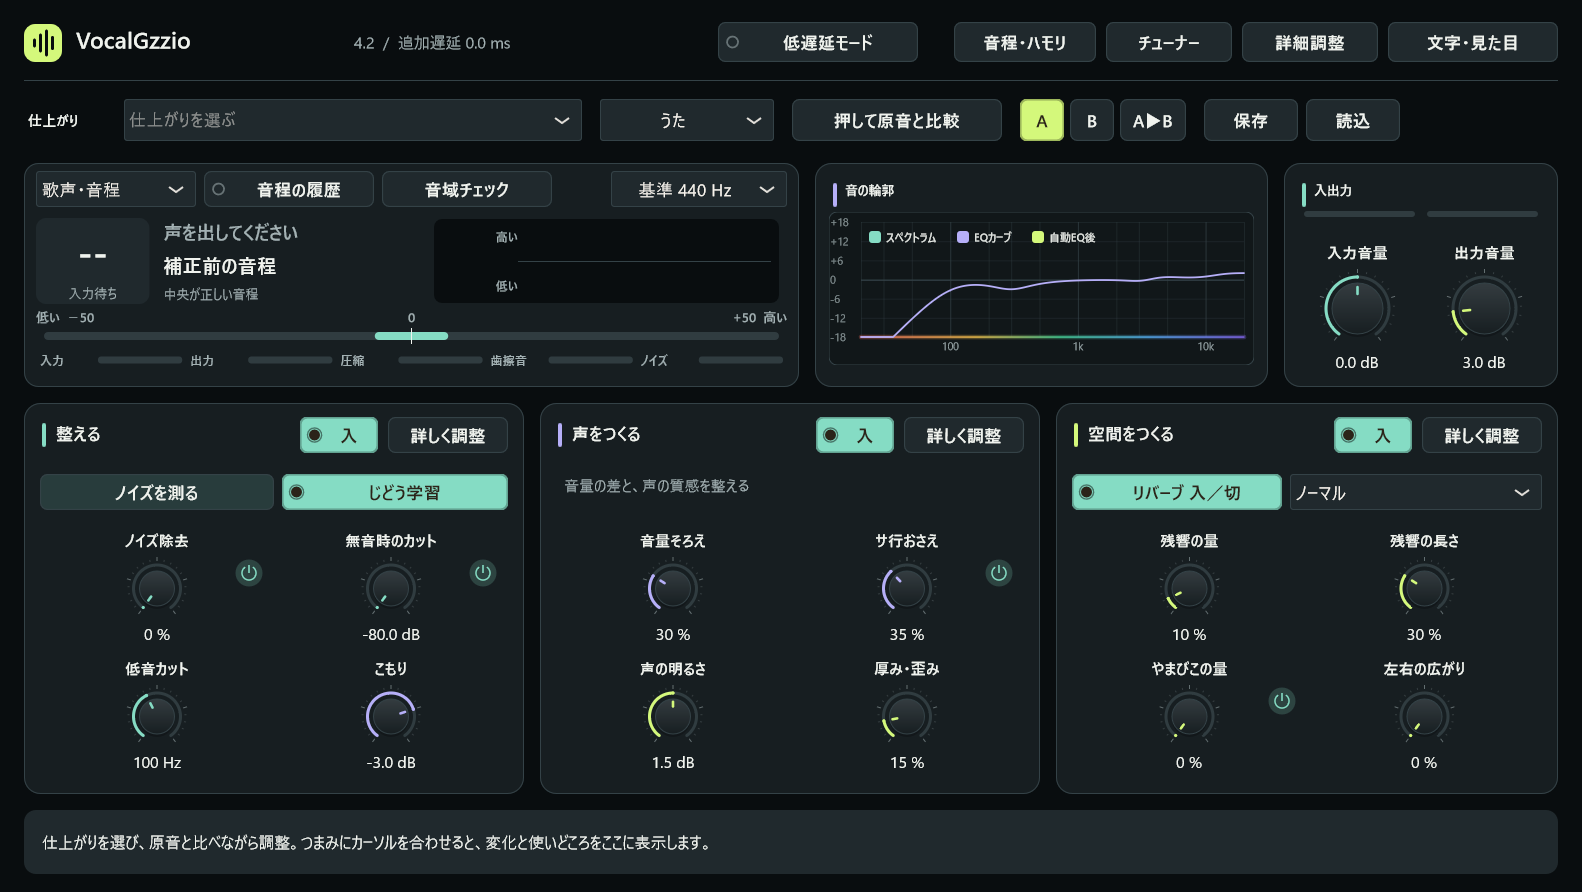
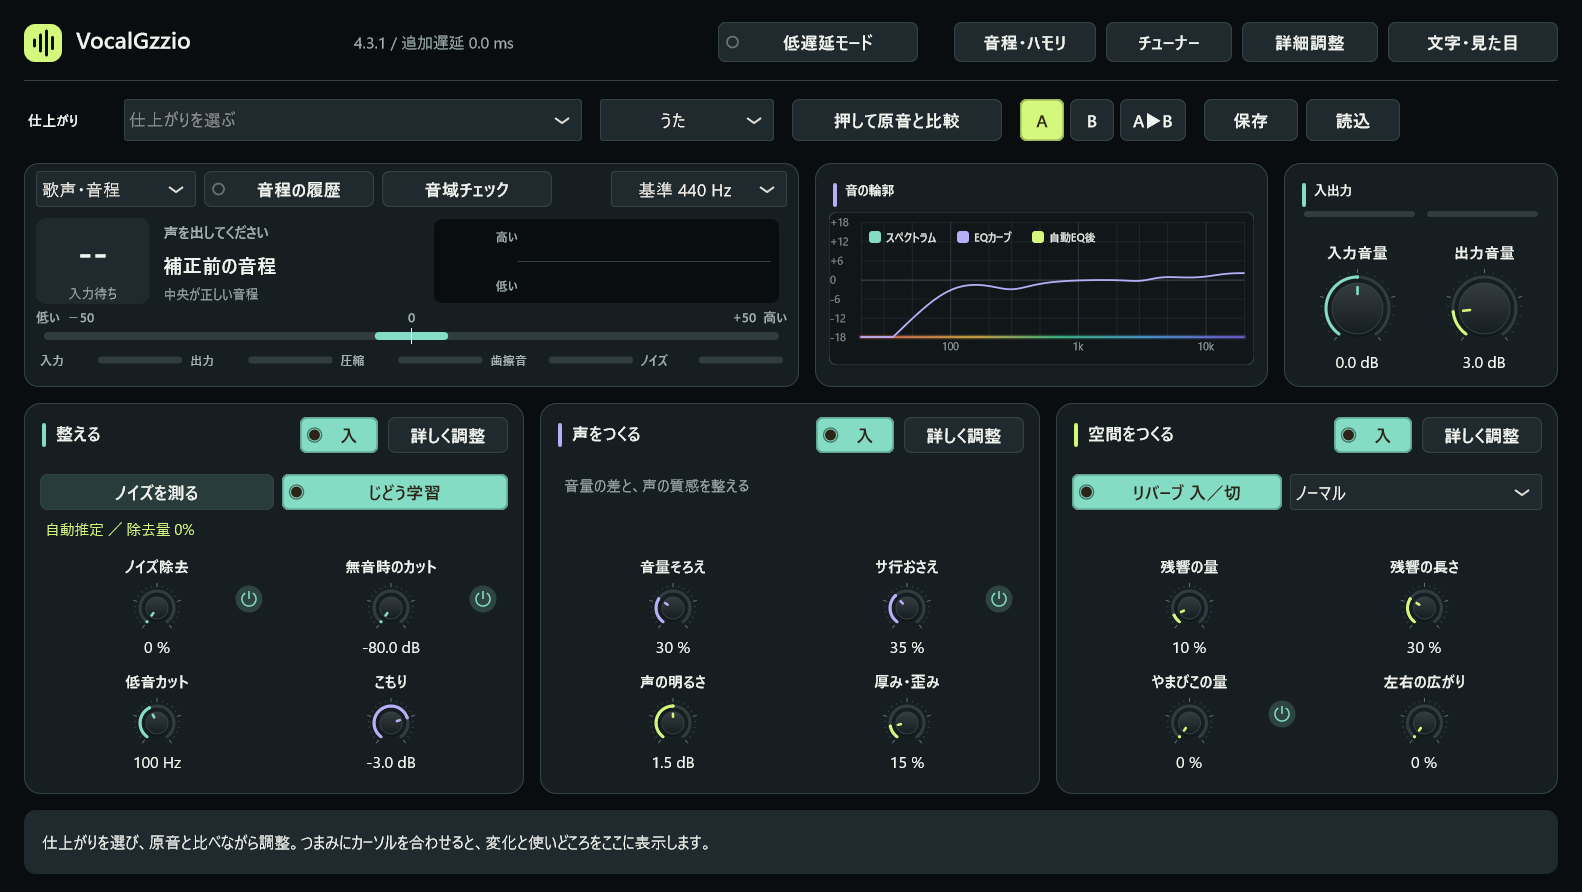
4.3.1の両OS公開案内と配布説明を更新

diff --git a/docs/index.html b/docs/index.html
@@ -1,7 +1,7 @@
-<!doctype html><html lang="ja"><head><meta charset="utf-8"><meta name="viewport" content="width=device-width,initial-scale=1"><title>VocalGzzio 4.3.1 開発中 — 声を整え、演奏に集中する</title><meta name="description" content="歌・配信・アコギの音づくりを見渡せる総合画面。６つの仕上がり、ノイズ除去、ギターチューナー、空間IRリバーブ。"><link rel="stylesheet" href="style.css"></head><body><header><nav><strong>VocalGzzio</strong><a href="manual.html">使い方</a><a href="https://gzzio.booth.pm/items/8764003">製品・体験版</a><a href="https://github.com/gzzio1989/VocalGzzio">開発情報</a></nav></header><main>
-<aside class="note" aria-label="配布状況"><strong>このページは修正版4.3.1の説明です。</strong><br>2026年10月8日現在、BOOTHで配布中の版は4.2.1です。ノイズ除去・画面切替・チューナーを修正し、配布用ファイルとMac版を準備しています。現在の配布ファイル・価格は<a href="https://gzzio.booth.pm/items/8764003">商品ページ</a>をご確認ください。</aside>
+<!doctype html><html lang="ja"><head><meta charset="utf-8"><meta name="viewport" content="width=device-width,initial-scale=1"><title>VocalGzzio 4.3.1 — 声を整え、演奏に集中する</title><meta name="description" content="歌・配信・アコギの音づくりを見渡せる総合画面。６つの仕上がり、ノイズ除去、ギターチューナー、空間IRリバーブ。"><link rel="stylesheet" href="style.css"></head><body><header><nav><strong>VocalGzzio</strong><a href="manual.html">使い方</a><a href="https://gzzio.booth.pm/items/8764003">製品・体験版</a><a href="https://github.com/gzzio1989/VocalGzzio">開発情報</a></nav></header><main>
+<aside class="note" aria-label="配布状況"><strong>4.3.1を公開しました。2026年10月9日更新。</strong><br>ノイズ学習・画面切替・チューナーを改善。Windows版とMac版を同じ購入にまとめました。購入済みの方は追加購入なしで両方利用できます。<a href="https://gzzio.booth.pm/items/8764003">製品版・無料体験版はこちら</a>。</aside>
 
-<p class="eyebrow">VocalGzzio 4.3.1 · 開発中</p><h1>声をつくる。<br>演奏に集中する。</h1><p class="lead">小さなつまみを探す時間から、音を聴く時間へ。<br>入力、声の質感、残響。全体を見渡しながら、欲しい仕上がりに近づける。</p>
+<p class="eyebrow">VocalGzzio 4.3.1 · Windows + Mac</p><h1>声をつくる。<br>演奏に集中する。</h1><p class="lead">小さなつまみを探す時間から、音を聴く時間へ。<br>入力、声の質感、残響。全体を見渡しながら、欲しい仕上がりに近づける。</p>
 <div class="actions"><a class="button" href="https://gzzio.booth.pm/items/8764003">製品・体験版を見る</a><a class="button secondary" href="manual.html">新しい画面の使い方</a></div>
 <img src="assets/overview.png" width="1582" height="892" alt="入力と出力、音程、整える・声をつくる・空間をつくるの操作を並べたVocalGzzioの総合画面">
 <div class="grid"><section class="card"><h3>選ぶ理由のある６つの音</h3><p>自然に整える、歌詞を前へ、丸く親密に。音色・強弱・余韻をまとめて変える「仕上がり」から出発します。</p></section><section class="card"><h3>変化を、その場で確かめる</h3><p>押している間だけ原音と比較。リバーブも独立して入／切できます。効果と使いどころを画面下に表示します。</p></section><section class="card"><h3>弾く人にも、読みやすく</h3><p>標準６弦ギター・４弦／５弦ベースのチューナーと大きな音程表示。文字と画面の大きさを調整でき、ブランド表示では英語にも切り替わります。</p></section></div>
@@ -9,5 +9,5 @@
 <table><thead><tr><th>仕上がり</th><th>狙う変化</th></tr></thead><tbody><tr><td>自然に整える</td><td>抑揚を残し、軽く整える</td></tr><tr><td>歌詞を前へ</td><td>こもりを引き、言葉の輪郭を出す</td></tr><tr><td>丸く親密に</td><td>硬い高音を丸く、近い響きへ</td></tr><tr><td>太く力強く</td><td>強弱をそろえ、密度と軽い歪みを加える</td></tr><tr><td>語りをくっきり</td><td>残響を切り、言葉を近く届ける</td></tr><tr><td>広く響かせる</td><td>長い余韻と薄いやまびこを足す</td></tr></tbody></table>
 <h2>使う前に知っておきたいこと</h2><div class="note">音程補正・ハモリは単独の歌声など、音程が１つの音源向けです。声とギターが混ざった入力を分離して補正する機能ではありません。音程処理には48kHzで約42.6ミリ秒の追加遅延があり、低遅延モードでは音程系を停止します。</div>
 <p>空間IRは計算生成した残響データです。実在の部屋の録音ではありません。ノイズ除去や補正の適量は音源によって変わります。まず体験版で、ご自身の声や機材との相性をお確かめください。</p>
-<h2>配布と対応環境</h2><p>Windows 10 / 11の64ビット版で、VST3と単体起動アプリを利用できます。Mac向けにはApple Silicon / Intel対応のVST3・AU・単体起動アプリを準備しています。現在の配布ファイル、署名・公証、確認済み環境は商品ページの記載をご覧ください。</p><p>製品版はBOOTHの購入履歴から取得できます。体験版には一定間隔の音量低下があります。既存の価格・販売条件は商品ページをご確認ください。</p>
+<h2>配布と対応環境</h2><p>Windows 10 / 11の64ビット版で、VST3と単体起動アプリを利用できます。Mac版はmacOS 11以降、Appleシリコン／Intel両対応で、VST3・AU・単体起動アプリとインストーラーを同梱しています。Windows・Macとも自動検査50項目に合格しています。Mac実機でのインストール・マイク入力・録音ソフトでの試奏は未確認です。Mac版のApple開発者署名・公証、Windowsインストーラーの電子署名は未付与です。購入前に体験版で相性をご確認ください。</p><p>製品版はBOOTHの購入履歴から取得できます。体験版は60秒ごとに0.6秒間音量が下がり、設定・プリセットの保存と復元が制限されます。既存の価格・販売条件は商品ページをご確認ください。</p>
 </main><footer>© G’zzio · <a href="manual.html">説明書</a> · <a href="https://gzzio.booth.pm/items/8764003">BOOTH</a></footer></body></html>

diff --git a/docs/manual.html b/docs/manual.html
@@ -1,5 +1,5 @@
-<!doctype html><html lang="ja"><head><meta charset="utf-8"><meta name="viewport" content="width=device-width,initial-scale=1"><title>VocalGzzio 4.3.1 開発中の説明書</title><link rel="stylesheet" href="style.css"></head><body><header><nav><strong>VocalGzzio 4.3.1</strong><a href="https://gzzio1989.github.io/apps/vocalgzzio/">紹介</a><a href="https://gzzio.booth.pm/items/8764003">配布ページ</a></nav></header><main>
-<aside class="note" aria-label="配布状況"><strong>このページは修正版4.3.1の説明です。</strong><br>2026年10月8日現在、BOOTHで配布中の版は4.2.1です。ノイズ除去・画面切替・チューナーを修正し、配布用ファイルとMac版を準備しています。現在の配布ファイル・価格は<a href="https://gzzio.booth.pm/items/8764003">商品ページ</a>をご確認ください。</aside>
+<!doctype html><html lang="ja"><head><meta charset="utf-8"><meta name="viewport" content="width=device-width,initial-scale=1"><title>VocalGzzio 4.3.1 説明書</title><link rel="stylesheet" href="style.css"></head><body><header><nav><strong>VocalGzzio 4.3.1</strong><a href="https://gzzio1989.github.io/apps/vocalgzzio/">紹介</a><a href="https://gzzio.booth.pm/items/8764003">配布ページ</a></nav></header><main>
+<aside class="note" aria-label="配布状況"><strong>修正版4.3.1の説明書です。</strong><br>Windows版とMac版は同じ製品の購入に含まれ、購入済みの方も両方利用できます。最新の配布ファイル・動作確認状況・価格は<a href="https://gzzio.booth.pm/items/8764003">商品ページ</a>をご確認ください。</aside>
 <h1>音を聴きながら、<br>ひとつずつ決める。</h1><p class="lead">まずは総合画面で仕上がりを選び、必要なところだけ調整します。</p>
 <nav aria-label="目次"><a href="#start">はじめる</a><a href="#noise">ノイズ</a><a href="#pitch">音程</a><a href="#space">残響</a><a href="#install">導入</a></nav>
 <h2 id="start">はじめの調整</h2><ol><li>単体起動では音声機器と入力を選びます。プラグインでは、録音ソフトの音声トラックへ挿します。</li><li>「うた」「アコギだけ」「しゃべり」「声とギター」から入力に合うものを選びます。ギターの音と声が１本のマイクに入る場合は「声とギター」です。</li><li>いちばん強く歌う・弾くところで入力が歪まないよう、音声機器の入力ゲインと画面の入力音量を調整します。録音時点の歪みは後から元に戻せません。</li><li>「仕上がり」から目的の近いものを選びます。選択すると音色・音量の整え方・空間の値が変わります。入力・出力音量、ノイズ学習、音程設定は保持します。</li><li>「押して原音と比較」を押したまま、処理前の音を聴きます。離すと設定した音に戻ります。大きい方を良い音と感じやすいので、輪郭・強弱・余韻も聴き比べます。</li></ol>

diff --git a/README.md b/README.md
@@ -1,6 +1,6 @@
 # VocalGzzio 4.3.1
 
-> **配布状況（2026年10月8日）**：このリポジトリは修正版4.3.1の開発・検証用です。BOOTHの配布中の版は4.2.1です。ノイズ除去・画面切替・チューナーの修正内容は[変更記録](docs/updates-4.3.1.md)をご覧ください。配布用ファイルとMac版は準備中です。現在の配布ファイル・価格は[商品ページ](https://gzzio.booth.pm/items/8764003)をご確認ください。
+> **配布状況（2026年10月9日）**：4.3.1のWindows版・Mac版を[BOOTH](https://gzzio.booth.pm/items/8764003)で公開しました。同じ製品の購入に両OS版が含まれ、過去の購入者も追加購入なしで利用できます。両OSの無料体験版もあります。修正内容は[変更記録](docs/updates-4.3.1.md)をご覧ください。
 
 歌・話し声・アコースティックギターの音を整えるプラグインです。
 入力から残響まで見渡せる総合画面と、細かく調整できる詳細画面を備えています。
@@ -43,9 +43,9 @@
 ## 配布形式
 
 - Windows 10 / 11、64ビット：VST3・単体起動アプリ。
-- Mac：Apple Silicon / Intel向けVST3・AU・単体起動アプリの作成手順を同梱。配布開始は各配布ページをご確認ください。
+- Mac：macOS 11以降、Appleシリコン／Intel両対応。VST3・AU・単体起動アプリとインストーラーを同梱。
 - 体験版には一定間隔の音量低下があります。製品版と体験版は別の名前で導入されます。
-- 電子署名・Macの公証は、各配布ページに記載された状態をご確認ください。
+- MacのApple開発者署名・公証、Windowsインストーラーの電子署名は未付与です。Mac実機での導入・録音ソフトでの試奏は未確認です。Windows・Macとも自動検査50項目に合格しています。
 
 製品版はBOOTHの購入履歴から、体験版は無料配布欄から入手してください。
 インストール前に録音ソフトと単体起動アプリを終了します。
